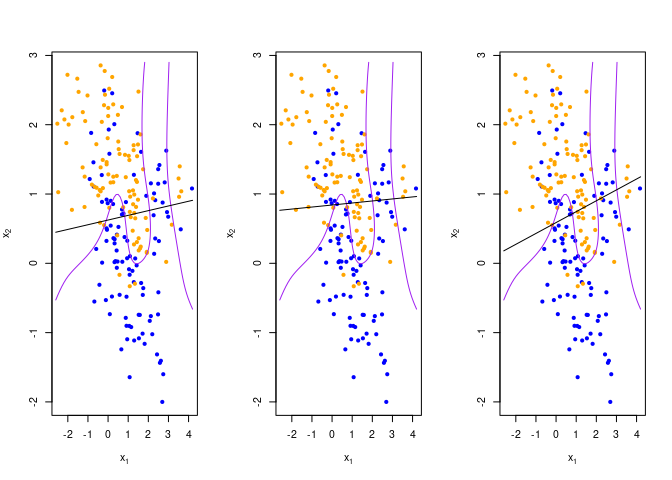
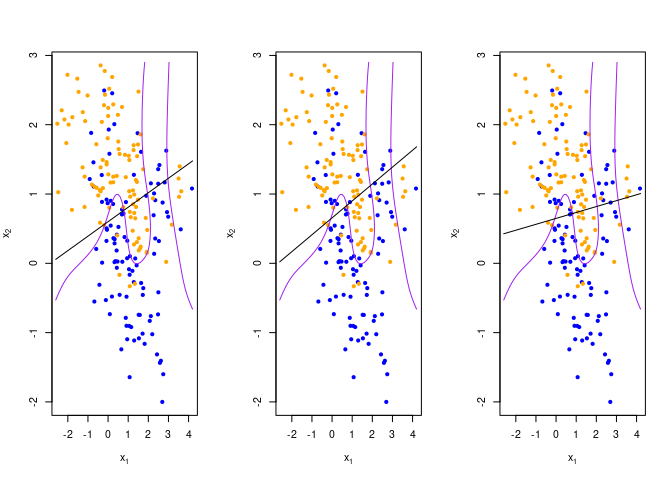
hw1 2nd submission

diff --git a/hw1/hw01.md b/hw1/hw01.md
@@ -286,3 +286,15 @@ sapply(lc_cont, lines)
     ## NULL
 
 This would reduce bias and increase variance.
+
+Bias is how inaccurately the model is predicting on the current data.
+The higher the bias, the more inaccurate the model. Variance on the
+other hand measures the variation in model prediciton on different
+datasets. Thus, a high variance may cause the model to be unable to
+generalize (produce good prediction) on test set.
+
+The new model reduces the bias, since it increases the flexibility of
+the model. It indeed enhances its power of classification. Thus,
+improving prediction on training dataset. However, this increased
+flexibility may increase the variance of the model, causing overfitting,
+where the model prediction power is reduced on the testset
